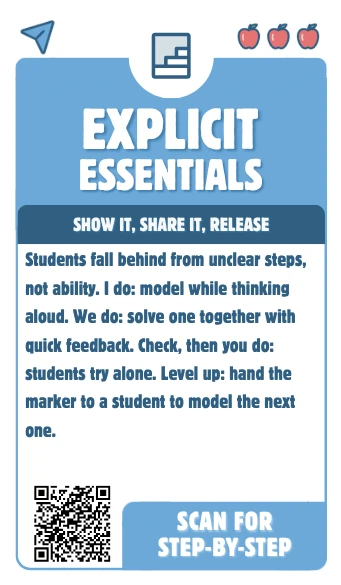
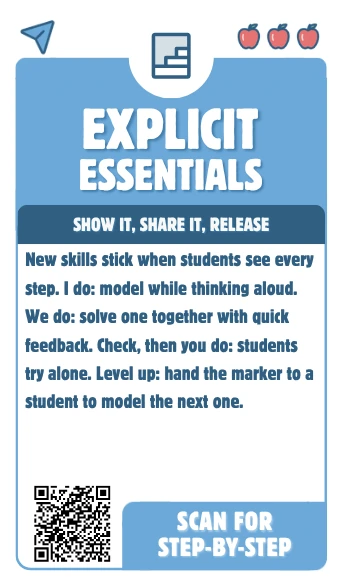
Refresh card images for the 12 cards updated in Canva
Claude-Session: https://claude.ai/code/session_01NtReemJb8tF9F5LXTnFjFT

Changed region(s): [[0.0587, 0.4308, 0.9384, 0.7692]]

diff --git a/public/teach-swap.html b/public/teach-swap.html
@@ -27,7 +27,7 @@
 </div></header>
 <main class="wrap" id="main">
 <nav class="jump" aria-label="On this page"><a href="#steps">Steps</a><a href="#picture">Diagram</a><a href="#examples">Examples</a><a href="#resources">Resources</a><a href="#evidence">Evidence</a></nav>
-<section class="move" id="move"><a class="cardimg" href="/cards/teach-swap.webp" data-cardimg><img src="/cards/teach-swap.webp" width="341" height="585" alt="The printed Teach Swap card"><span>Tap to enlarge</span></a><h2>The move</h2><p>Each student masters one part of a reading with classmates who have the same part, then returns to their group to teach it.</p></section>
+<section class="move" id="move"><a class="cardimg" href="/cards/teach-swap.webp?v=2" data-cardimg><img src="/cards/teach-swap.webp?v=2" width="341" height="585" alt="The printed Teach Swap card"><span>Tap to enlarge</span></a><h2>The move</h2><p>Each student masters one part of a reading with classmates who have the same part, then returns to their group to teach it.</p></section>
 <section id="steps"><div class="h-row"><h2>Step by step</h2><button type="button" class="btn-ghost" data-open-run><svg viewBox="0 0 24 24" aria-hidden="true"><path d="M8 5v14l11-7z"/></svg>Run it in class</button></div><div class="lflow"><p class="lflow-h">Step timing</p><ol><li style="flex:60"><span class="n">1</span><span class="lab">Form home groups</span><span class="dur">1 minute</span></li><li style="flex:600"><span class="n">2</span><span class="lab">Expert groups</span><span class="dur">8–10 minutes</span></li><li style="flex:120"><span class="n">4</span><span class="lab">Plan the teach</span><span class="dur">2 minutes</span></li><li style="flex:120"><span class="n">5</span><span class="lab">Return and teach</span><span class="dur">2 minutes each</span></li><li style="flex:180"><span class="n">6</span><span class="lab">Quiz</span><span class="dur">3 minutes</span></li></ol></div><ol class="steps">
 <li><div><strong>Form home groups</strong><span class="when">1 minute</span><span class="txt">Groups of 3–4. Each member gets a different part: A, B, C or D. Hand out a note-catcher with one row per part.</span></div></li>
 <li><div><strong>Expert groups</strong><span class="when">8–10 minutes</span><span class="say">“All the A’s meet by the window, B’s by the door…”</span><span class="txt">Read the part together and agree on the 3 most important points. Every expert writes the points on their own card.</span></div></li>

diff --git a/public/kudos-call.html b/public/kudos-call.html
@@ -27,7 +27,7 @@
 </div></header>
 <main class="wrap" id="main">
 <nav class="jump" aria-label="On this page"><a href="#steps">Steps</a><a href="#picture">Diagram</a><a href="#examples">Examples</a><a href="#resources">Resources</a><a href="#evidence">Evidence</a></nav>
-<section class="move" id="move"><a class="cardimg" href="/cards/kudos-call.webp" data-cardimg><img src="/cards/kudos-call.webp" width="341" height="585" alt="The printed Kudos Call card"><span>Tap to enlarge</span></a><h2>The move</h2><p>Make two-minute positive calls to two families a week about a student’s specific effort or improvement, and log them so every student in one class gets a call before you start the next class.</p></section>
+<section class="move" id="move"><a class="cardimg" href="/cards/kudos-call.webp?v=2" data-cardimg><img src="/cards/kudos-call.webp?v=2" width="341" height="585" alt="The printed Kudos Call card"><span>Tap to enlarge</span></a><h2>The move</h2><p>Make two-minute positive calls to two families a week about a student’s specific effort or improvement, and log them so every student in one class gets a call before you start the next class.</p></section>
 <section id="steps"><div class="h-row"><h2>Step by step</h2><button type="button" class="btn-ghost" data-open-run><svg viewBox="0 0 24 24" aria-hidden="true"><path d="M8 5v14l11-7z"/></svg>Run it in class</button></div><div class="lflow"><p class="lflow-h">Step timing</p><ol><li style="flex:60"><span class="n">1</span><span class="lab">Pick two students</span><span class="dur">1 minute</span></li><li style="flex:60"><span class="n">2</span><span class="lab">Note one specific thing</span><span class="dur">1 minute</span></li><li style="flex:120"><span class="n">3</span><span class="lab">Call</span><span class="dur">2 minutes each</span></li><li style="flex:20"><span class="n">5</span><span class="lab">Tell the student</span><span class="dur">10 seconds, next day</span></li><li style="flex:20"><span class="n">6</span><span class="lab">Log it</span><span class="dur">10 seconds</span></li></ol></div><ol class="steps">
 <li><div><strong>Pick two students</strong><span class="when">1 minute</span><span class="txt">Choose from the log, starting with students you haven’t called.</span></div></li>
 <li><div><strong>Note one specific thing</strong><span class="when">1 minute</span><span class="txt">Effort, growth, kindness or a strategy you saw this week.</span></div></li>

diff --git a/public/quiz-lab.html b/public/quiz-lab.html
@@ -27,7 +27,7 @@
 </div></header>
 <main class="wrap" id="main">
 <nav class="jump" aria-label="On this page"><a href="#steps">Steps</a><a href="#picture">Diagram</a><a href="#examples">Examples</a><a href="#resources">Resources</a><a href="#evidence">Evidence</a></nav>
-<section class="move" id="move"><a class="cardimg" href="/cards/quiz-lab.webp" data-cardimg><img src="/cards/quiz-lab.webp" width="341" height="585" alt="The printed Quiz Lab card"><span>Tap to enlarge</span></a><h2>The move</h2><p>Each student writes one question and answer on a card; partners quiz each other, swap cards and find a new partner.</p></section>
+<section class="move" id="move"><a class="cardimg" href="/cards/quiz-lab.webp?v=2" data-cardimg><img src="/cards/quiz-lab.webp?v=2" width="341" height="585" alt="The printed Quiz Lab card"><span>Tap to enlarge</span></a><h2>The move</h2><p>Each student writes one question and answer on a card; partners quiz each other, swap cards and find a new partner.</p></section>
 <section id="steps"><div class="h-row"><h2>Step by step</h2><button type="button" class="btn-ghost" data-open-run><svg viewBox="0 0 24 24" aria-hidden="true"><path d="M8 5v14l11-7z"/></svg>Run it in class</button></div><div class="lflow"><p class="lflow-h">Step timing</p><ol><li style="flex:180"><span class="n">1</span><span class="lab">Write</span><span class="dur">3 minutes</span></li><li style="flex:20"><span class="n">2</span><span class="lab">Stand up, hand up, pair up</span><span class="dur">10 seconds</span></li><li style="flex:30"><span class="n">3</span><span class="lab">Quiz</span><span class="dur">30 seconds</span></li><li style="flex:30"><span class="n">4</span><span class="lab">Quiz back</span><span class="dur">30 seconds</span></li><li style="flex:20"><span class="n">5</span><span class="lab">Trade</span><span class="dur">5 seconds</span></li><li style="flex:300"><span class="n">6</span><span class="lab">Repeat</span><span class="dur">5 minutes</span></li></ol></div><ol class="steps">
 <li><div><strong>Write</strong><span class="when">3 minutes</span><span class="say">“Write one question from this unit on the front of your card and the answer on the back.”</span><span class="txt">Check a few for accuracy.</span></div></li>
 <li><div><strong>Stand up, hand up, pair up</strong><span class="when">10 seconds</span><span class="txt">Students find a partner with a raised hand.</span></div></li>

diff --git a/public/explicit-essentials.html b/public/explicit-essentials.html
@@ -27,7 +27,7 @@
 </div></header>
 <main class="wrap" id="main">
 <nav class="jump" aria-label="On this page"><a href="#steps">Steps</a><a href="#picture">Diagram</a><a href="#examples">Examples</a><a href="#resources">Resources</a><a href="#evidence">Evidence</a></nav>
-<section class="move" id="move"><a class="cardimg" href="/cards/explicit-essentials.webp" data-cardimg><img src="/cards/explicit-essentials.webp" width="341" height="585" alt="The printed Explicit Essentials card"><span>Tap to enlarge</span></a><h2>The move</h2><p>You model the skill while thinking aloud, students try it with you, then they try it alone.</p></section>
+<section class="move" id="move"><a class="cardimg" href="/cards/explicit-essentials.webp?v=2" data-cardimg><img src="/cards/explicit-essentials.webp?v=2" width="341" height="585" alt="The printed Explicit Essentials card"><span>Tap to enlarge</span></a><h2>The move</h2><p>You model the skill while thinking aloud, students try it with you, then they try it alone.</p></section>
 <section id="steps"><div class="h-row"><h2>Step by step</h2><button type="button" class="btn-ghost" data-open-run><svg viewBox="0 0 24 24" aria-hidden="true"><path d="M8 5v14l11-7z"/></svg>Run it in class</button></div><div class="lflow"><p class="lflow-h">Step timing</p><ol><li style="flex:240"><span class="n">1</span><span class="lab">Show it: I do</span><span class="dur">3–4 minutes</span></li><li style="flex:300"><span class="n">2</span><span class="lab">Share it: we do</span><span class="dur">3–5 minutes</span></li><li style="flex:60"><span class="n">3</span><span class="lab">Check</span><span class="dur">1 minute</span></li><li style="flex:300"><span class="n">4</span><span class="lab">Release: you do</span><span class="dur">3–5 minutes</span></li></ol></div><ol class="steps">
 <li><div><strong>Show it: I do</strong><span class="when">3–4 minutes</span><span class="txt">Work one example while saying your thinking out loud, including how you check your work.</span><span class="say">“Watch my pencil and listen to my thinking. First I notice…”</span></div></li>
 <li><div><strong>Share it: we do</strong><span class="when">3–5 minutes</span><span class="txt">Do a second example together. Students tell you each step.</span><span class="say">“What do I do first? Tell your partner, then tell me.”</span></div></li>

diff --git a/public/hook-line.html b/public/hook-line.html
@@ -27,7 +27,7 @@
 </div></header>
 <main class="wrap" id="main">
 <nav class="jump" aria-label="On this page"><a href="#steps">Steps</a><a href="#hooks">Hooks</a><a href="#picture">Diagram</a><a href="#examples">Examples</a><a href="#resources">Resources</a><a href="#evidence">Evidence</a></nav>
-<section class="move" id="move"><a class="cardimg" href="/cards/hook-line.webp" data-cardimg><img src="/cards/hook-line.webp" width="341" height="585" alt="The printed Hook, Line... card"><span>Tap to enlarge</span></a><h2>The move</h2><p>Open class with a question students want answered, and hold back the answer until the lesson gives it.</p></section>
+<section class="move" id="move"><a class="cardimg" href="/cards/hook-line.webp?v=2" data-cardimg><img src="/cards/hook-line.webp?v=2" width="341" height="585" alt="The printed Hook, Line... card"><span>Tap to enlarge</span></a><h2>The move</h2><p>Open class with a question students want answered, and hold back the answer until the lesson gives it.</p></section>
 <section id="steps"><div class="h-row"><h2>Step by step</h2><button type="button" class="btn-ghost" data-open-run><svg viewBox="0 0 24 24" aria-hidden="true"><path d="M8 5v14l11-7z"/></svg>Run it in class</button></div><div class="lflow"><p class="lflow-h">Step timing</p><ol><li style="flex:30"><span class="n">2</span><span class="lab">Show the hook</span><span class="dur">30 seconds</span></li><li style="flex:60"><span class="n">3</span><span class="lab">Guess</span><span class="dur">1 minute</span></li><li style="flex:60"><span class="n">4</span><span class="lab">Share two guesses</span><span class="dur">1 minute</span></li><li style="flex:300"><span class="n">6</span><span class="lab">Reveal</span><span class="dur">Last 5 minutes</span></li></ol><p class="flow-prep"><b>Before class:</b> Pick your hook</p></div><ol class="steps">
 <li><div><strong>Pick your hook</strong><span class="when">Before class</span><span class="txt">Choose one hook type from the menu below. Then finish this sentence: <i>“This hook leads to today’s big idea, which is ___.”</i> If you can’t finish it, pick a different hook.</span></div></li>
 <li><div><strong>Show the hook</strong><span class="when">30 seconds</span><span class="txt">Put the image, puzzle or question up as students walk in. No directions yet.</span></div></li>

diff --git a/public/ignite-bites.html b/public/ignite-bites.html
@@ -27,7 +27,7 @@
 </div></header>
 <main class="wrap" id="main">
 <nav class="jump" aria-label="On this page"><a href="#steps">Steps</a><a href="#picture">Diagram</a><a href="#examples">Examples</a><a href="#resources">Resources</a><a href="#evidence">Evidence</a></nav>
-<section class="move" id="move"><a class="cardimg" href="/cards/ignite-bites.webp" data-cardimg><img src="/cards/ignite-bites.webp" width="341" height="585" alt="The printed Ignite Bites card"><span>Tap to enlarge</span></a><h2>The move</h2><p>Each pair learns one subtopic fast, then teaches it to the class in exactly two minutes.</p></section>
+<section class="move" id="move"><a class="cardimg" href="/cards/ignite-bites.webp?v=2" data-cardimg><img src="/cards/ignite-bites.webp?v=2" width="341" height="585" alt="The printed Ignite Bites card"><span>Tap to enlarge</span></a><h2>The move</h2><p>Each pair learns one subtopic fast, then teaches it to the class in exactly two minutes.</p></section>
 <section id="steps"><div class="h-row"><h2>Step by step</h2><button type="button" class="btn-ghost" data-open-run><svg viewBox="0 0 24 24" aria-hidden="true"><path d="M8 5v14l11-7z"/></svg>Run it in class</button></div><div class="lflow"><p class="lflow-h">Step timing</p><ol><li style="flex:60"><span class="n">1</span><span class="lab">Assign</span><span class="dur">1 minute</span></li><li style="flex:600"><span class="n">2</span><span class="lab">Research</span><span class="dur">10 minutes</span></li><li style="flex:120"><span class="n">5</span><span class="lab">Present</span><span class="dur">2 minutes each</span></li><li style="flex:30"><span class="n">6</span><span class="lab">Capture</span><span class="dur">30 seconds after each talk</span></li><li style="flex:180"><span class="n">7</span><span class="lab">Quiz</span><span class="dur">3 minutes</span></li></ol></div><ol class="steps">
 <li><div><strong>Assign</strong><span class="when">1 minute</span><span class="txt">Give each pair a subtopic and one guiding question. Hand every student a takeaway sheet with one row per talk.</span></div></li>
 <li><div><strong>Research</strong><span class="when">10 minutes</span><span class="say">“Find the three things your classmates most need to know. Both of you must be ready to give the whole talk. I’ll pick who starts.”</span></div></li>

diff --git a/public/passing-connection.html b/public/passing-connection.html
@@ -27,7 +27,7 @@
 </div></header>
 <main class="wrap" id="main">
 <nav class="jump" aria-label="On this page"><a href="#steps">Steps</a><a href="#picture">Diagram</a><a href="#examples">Examples</a><a href="#resources">Resources</a><a href="#evidence">Evidence</a></nav>
-<section class="move" id="move"><a class="cardimg" href="/cards/passing-connection.webp" data-cardimg><img src="/cards/passing-connection.webp" width="341" height="585" alt="The printed Passing Connection card"><span>Tap to enlarge</span></a><h2>The move</h2><p>Each week, pick one student and use their interest survey to start short conversations in passing about anything but schoolwork.</p></section>
+<section class="move" id="move"><a class="cardimg" href="/cards/passing-connection.webp?v=2" data-cardimg><img src="/cards/passing-connection.webp?v=2" width="341" height="585" alt="The printed Passing Connection card"><span>Tap to enlarge</span></a><h2>The move</h2><p>Each week, pick one student and use their interest survey to start short conversations in passing about anything but schoolwork.</p></section>
 <section id="steps"><div class="h-row"><h2>Step by step</h2><button type="button" class="btn-ghost" data-open-run><svg viewBox="0 0 24 24" aria-hidden="true"><path d="M8 5v14l11-7z"/></svg>Run it in class</button></div><div class="lflow"><p class="lflow-h">Step timing</p><ol><li style="flex:30"><span class="n">2</span><span class="lab">Pick your student</span><span class="dur">Monday, 30 seconds</span></li><li style="flex:30"><span class="n">3</span><span class="lab">Find a detail</span><span class="dur">30 seconds</span></li><li style="flex:60"><span class="n">4</span><span class="lab">Start a chat</span><span class="dur">1 minute, a few times that week</span></li><li style="flex:20"><span class="n">5</span><span class="lab">Log it</span><span class="dur">10 seconds</span></li></ol><p class="flow-prep"><b>Before class:</b> Give the survey</p></div><ol class="steps">
 <li><div><strong>Give the survey</strong><span class="when">Once, 10 minutes</span><span class="txt">Students fill out the interest survey. Keep it private.</span></div></li>
 <li><div><strong>Pick your student</strong><span class="when">Monday, 30 seconds</span><span class="txt">Go down the tracker in order.</span></div></li>

diff --git a/public/pulse-check.html b/public/pulse-check.html
@@ -27,7 +27,7 @@
 </div></header>
 <main class="wrap" id="main">
 <nav class="jump" aria-label="On this page"><a href="#steps">Steps</a><a href="#picture">Diagram</a><a href="#examples">Examples</a><a href="#resources">Resources</a><a href="#evidence">Evidence</a></nav>
-<section class="move" id="move"><a class="cardimg" href="/cards/pulse-check.webp" data-cardimg><img src="/cards/pulse-check.webp" width="341" height="585" alt="The printed Pulse Check card"><span>Tap to enlarge</span></a><h2>The move</h2><p>Pause mid-lesson for a 30-second thumbs or 0–5 finger check, then reteach, regroup or move on.</p></section>
+<section class="move" id="move"><a class="cardimg" href="/cards/pulse-check.webp?v=2" data-cardimg><img src="/cards/pulse-check.webp?v=2" width="341" height="585" alt="The printed Pulse Check card"><span>Tap to enlarge</span></a><h2>The move</h2><p>Pause mid-lesson for a 30-second thumbs or 0–5 finger check, then reteach, regroup or move on.</p></section>
 <section id="steps"><div class="h-row"><h2>Step by step</h2><button type="button" class="btn-ghost" data-open-run><svg viewBox="0 0 24 24" aria-hidden="true"><path d="M8 5v14l11-7z"/></svg>Run it in class</button></div><div class="lflow"><p class="lflow-h">Step timing</p><ol><li style="flex:20"><span class="n">1</span><span class="lab">Ask</span><span class="dur">5 seconds</span></li><li style="flex:20"><span class="n">2</span><span class="lab">Signal</span><span class="dur">5 seconds</span></li><li style="flex:20"><span class="n">3</span><span class="lab">Scan</span><span class="dur">10 seconds</span></li><li style="flex:60"><span class="n">4</span><span class="lab">Confirm</span><span class="dur">1 minute</span></li><li style="flex:20"><span class="n">5</span><span class="lab">Decide</span><span class="dur">10 seconds</span></li></ol></div><ol class="steps">
 <li><div><strong>Ask</strong><span class="when">5 seconds</span><span class="say">“Thumbs up if you could do this alone, sideways if you’re getting there, down if you’re lost.”</span><span class="txt">Or: “Show 0 to 5 fingers.”</span></div></li>
 <li><div><strong>Signal</strong><span class="when">5 seconds</span><span class="say">“Hold it close to your chest so it’s private.”</span></div></li>

diff --git a/public/front-no-more.html b/public/front-no-more.html
@@ -27,7 +27,7 @@
 </div></header>
 <main class="wrap" id="main">
 <nav class="jump" aria-label="On this page"><a href="#steps">Steps</a><a href="#picture">Diagram</a><a href="#examples">Examples</a><a href="#resources">Resources</a><a href="#evidence">Evidence</a></nav>
-<section class="move" id="move"><a class="cardimg" href="/cards/front-no-more.webp" data-cardimg><img src="/cards/front-no-more.webp" width="341" height="585" alt="The printed Front No More card"><span>Tap to enlarge</span></a><h2>The move</h2><p>For one lesson, you stay away from the front of the room and teach by moving among students.</p></section>
+<section class="move" id="move"><a class="cardimg" href="/cards/front-no-more.webp?v=2" data-cardimg><img src="/cards/front-no-more.webp?v=2" width="341" height="585" alt="The printed Front No More card"><span>Tap to enlarge</span></a><h2>The move</h2><p>For one lesson, you stay away from the front of the room and teach by moving among students.</p></section>
 <section id="steps"><div class="h-row"><h2>Step by step</h2><button type="button" class="btn-ghost" data-open-run><svg viewBox="0 0 24 24" aria-hidden="true"><path d="M8 5v14l11-7z"/></svg>Run it in class</button></div><div class="lflow"><p class="lflow-h">Step timing</p><ol><li style="flex:120"><span class="n">1</span><span class="lab">Launch from the side</span><span class="dur">2 minutes</span></li><li style="flex:60"><span class="n">3</span><span class="lab">Coach, don’t rescue</span><span class="dur">30–60 seconds per stop</span></li><li style="flex:120"><span class="n">5</span><span class="lab">Close from the floor</span><span class="dur">2 minutes</span></li></ol></div><ol class="steps">
 <li><div><strong>Launch from the side</strong><span class="when">2 minutes</span><span class="txt">Give directions from the side or back of the room.</span><span class="say">“Today the front of the room is lava. I’ll be coming to you.”</span></div></li>
 <li><div><strong>Set a route</strong><span class="when">During work time</span><span class="txt">Move in a loop so you reach every table every 5–10 minutes.</span></div></li>

diff --git a/public/circle-up-check.html b/public/circle-up-check.html
@@ -27,7 +27,7 @@
 </div></header>
 <main class="wrap" id="main">
 <nav class="jump" aria-label="On this page"><a href="#steps">Steps</a><a href="#picture">Diagram</a><a href="#examples">Examples</a><a href="#resources">Resources</a><a href="#evidence">Evidence</a></nav>
-<section class="move" id="move"><a class="cardimg" href="/cards/circle-up-check.webp" data-cardimg><img src="/cards/circle-up-check.webp" width="341" height="585" alt="The printed Circle Up Check card"><span>Tap to enlarge</span></a><h2>The move</h2><p>Every student shares one word or a 1–5 rating about how they’re arriving, in a quick round with no discussion.</p></section>
+<section class="move" id="move"><a class="cardimg" href="/cards/circle-up-check.webp?v=2" data-cardimg><img src="/cards/circle-up-check.webp?v=2" width="341" height="585" alt="The printed Circle Up Check card"><span>Tap to enlarge</span></a><h2>The move</h2><p>Every student shares one word or a 1–5 rating about how they’re arriving, in a quick round with no discussion.</p></section>
 <section id="steps"><div class="h-row"><h2>Step by step</h2><button type="button" class="btn-ghost" data-open-run><svg viewBox="0 0 24 24" aria-hidden="true"><path d="M8 5v14l11-7z"/></svg>Run it in class</button></div><div class="lflow"><p class="lflow-h">Step timing</p><ol><li style="flex:20"><span class="n">1</span><span class="lab">Set the prompt</span><span class="dur">10 seconds</span></li><li style="flex:20"><span class="n">2</span><span class="lab">Think</span><span class="dur">10 seconds</span></li><li style="flex:60"><span class="n">3</span><span class="lab">Go around</span><span class="dur">60 seconds</span></li></ol></div><ol class="steps">
 <li><div><strong>Set the prompt</strong><span class="when">10 seconds</span><span class="say">“One word for how you’re showing up today. Or a number, 1 to 5.”</span></div></li>
 <li><div><strong>Think</strong><span class="when">10 seconds</span><span class="say">“Got it? Thumbs up when ready.”</span></div></li>

diff --git a/public/every-hand-up.html b/public/every-hand-up.html
@@ -27,7 +27,7 @@
 </div></header>
 <main class="wrap" id="main">
 <nav class="jump" aria-label="On this page"><a href="#steps">Steps</a><a href="#picture">Diagram</a><a href="#examples">Examples</a><a href="#resources">Resources</a><a href="#evidence">Evidence</a></nav>
-<section class="move" id="move"><a class="cardimg" href="/cards/every-hand-up.webp" data-cardimg><img src="/cards/every-hand-up.webp" width="341" height="585" alt="The printed Every Hand Up card"><span>Tap to enlarge</span></a><h2>The move</h2><p>Give everyone think time, then pull a name stick at random so anyone could be asked.</p></section>
+<section class="move" id="move"><a class="cardimg" href="/cards/every-hand-up.webp?v=2" data-cardimg><img src="/cards/every-hand-up.webp?v=2" width="341" height="585" alt="The printed Every Hand Up card"><span>Tap to enlarge</span></a><h2>The move</h2><p>Give everyone think time, then pull a name stick at random so anyone could be asked.</p></section>
 <section id="steps"><div class="h-row"><h2>Step by step</h2><button type="button" class="btn-ghost" data-open-run><svg viewBox="0 0 24 24" aria-hidden="true"><path d="M8 5v14l11-7z"/></svg>Run it in class</button></div><div class="lflow"><p class="lflow-h">Step timing</p><ol><li style="flex:20"><span class="n">2</span><span class="lab">Ask the question</span><span class="dur">5 seconds</span></li><li style="flex:20"><span class="n">3</span><span class="lab">Think time</span><span class="dur">5–10 seconds</span></li><li style="flex:20"><span class="n">4</span><span class="lab">Pull a stick</span><span class="dur">2 seconds</span></li></ol><p class="flow-prep"><b>Before class:</b> Set the norm</p></div><ol class="steps">
 <li><div><strong>Set the norm</strong><span class="when">Once</span><span class="say">“In here, everyone thinks. I’ll pull names at random, and you can always phone a friend.”</span></div></li>
 <li><div><strong>Ask the question</strong><span class="when">5 seconds</span><span class="txt">No hands.</span></div></li>

diff --git a/public/talk-less-do-more.html b/public/talk-less-do-more.html
@@ -27,7 +27,7 @@
 </div></header>
 <main class="wrap" id="main">
 <nav class="jump" aria-label="On this page"><a href="#steps">Steps</a><a href="#picture">Diagram</a><a href="#examples">Examples</a><a href="#resources">Resources</a><a href="#evidence">Evidence</a></nav>
-<section class="move" id="move"><a class="cardimg" href="/cards/talk-less-do-more.webp" data-cardimg><img src="/cards/talk-less-do-more.webp" width="341" height="585" alt="The printed Talk Less, Do More card"><span>Tap to enlarge</span></a><h2>The move</h2><p>You cap your own talking at five minutes at a time, then hand the work to students.</p></section>
+<section class="move" id="move"><a class="cardimg" href="/cards/talk-less-do-more.webp?v=2" data-cardimg><img src="/cards/talk-less-do-more.webp?v=2" width="341" height="585" alt="The printed Talk Less, Do More card"><span>Tap to enlarge</span></a><h2>The move</h2><p>You cap your own talking at five minutes at a time, then hand the work to students.</p></section>
 <section id="steps"><div class="h-row"><h2>Step by step</h2><button type="button" class="btn-ghost" data-open-run><svg viewBox="0 0 24 24" aria-hidden="true"><path d="M8 5v14l11-7z"/></svg>Run it in class</button></div><ol class="steps">
 <li><div><strong>Plan your five</strong><span class="when">Before class</span><span class="txt">Decide the one or two things students must hear from you. Everything else goes in the task.</span></div></li>
 <li><div><strong>Start the timer</strong><span class="when">When you start talking</span><span class="say">“I have five minutes. Watch the clock with me.”</span></div></li>
